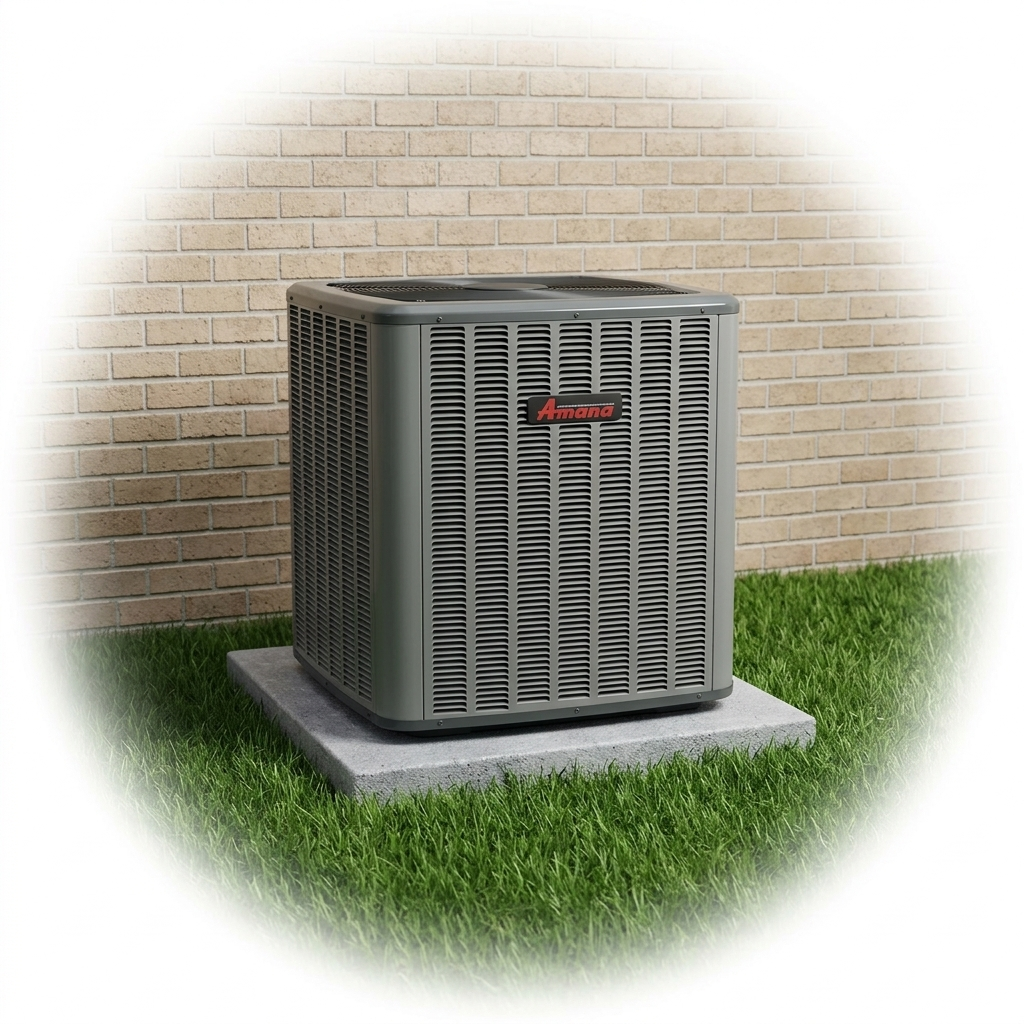
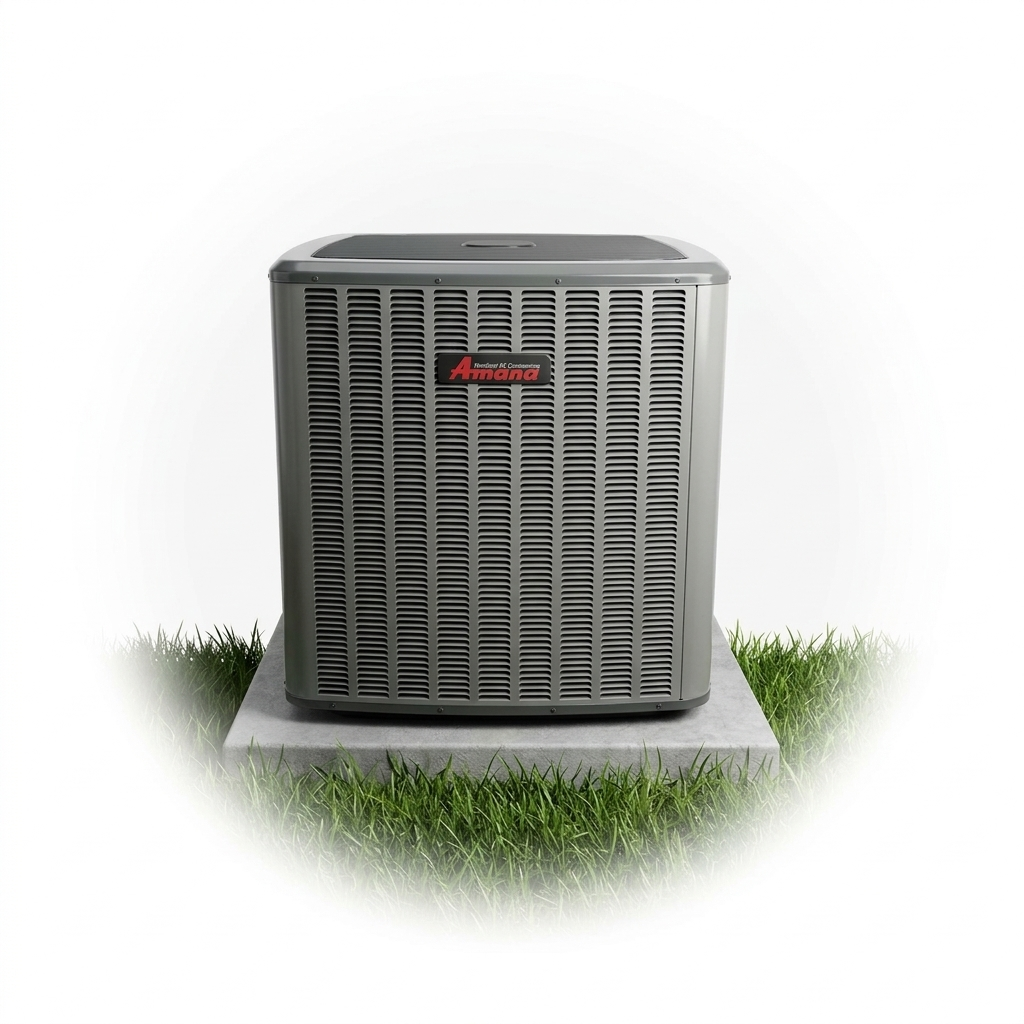
Fix: Remove text overlay from ac_installation_small.png and add cache busting

diff --git a/index.html b/index.html
@@ -241,7 +241,7 @@
       <div class="services-grid">
         <a class="service-card" href="services.html#repair" aria-label="Learn more about AC repair services">
           <div class="service-icon service-icon-photo">
-            <img src="/images/cat_images/placeholder-light-blue.png" alt="AC Repair - technician working on units"
+            <img src="/images/cat_images/ac_repair_small.png" alt="AC Repair - technician working on units"
               width="150" height="150" loading="lazy">
           </div>
           <h3 class="service-title">AC Repair</h3>
@@ -255,7 +255,7 @@
         <a class="service-card" href="services.html#installation"
           aria-label="Learn more about AC installation services">
           <div class="service-icon service-icon-photo">
-            <img src="/images/cat_images/ac_installation_small.png" alt="AC Installation - new unit on home" width="150"
+            <img src="/images/cat_images/ac_installation_small.png?v=2" alt="AC Installation - new unit on home" width="150"
               height="150" loading="lazy">
           </div>
           <h3 class="service-title">AC Installation</h3>

diff --git a/services.html b/services.html
@@ -189,7 +189,7 @@
                 style="display: grid; grid-template-columns: 1fr; gap: 40px; align-items: start;">
                 <div style="text-align: center;">
                     <div class="service-detail-image-wrapper">
-                        <img src="/images/cat_images/ac_repair_large.jpg"
+                        <img src="/images/cat_images/ac_installation_large.jpeg?v=1"
                             alt="AC Repair Services - Professional HVAC Technician">
                     </div>
                 </div>

diff --git a/css/main.css b/css/main.css
@@ -843,6 +843,7 @@ a:hover {
         visibility: visible !important;
         display: flex !important;
         position: relative !important;
+        pointer-events: auto !important;
         flex-direction: row;
         transform: none !important;
         background: none;
